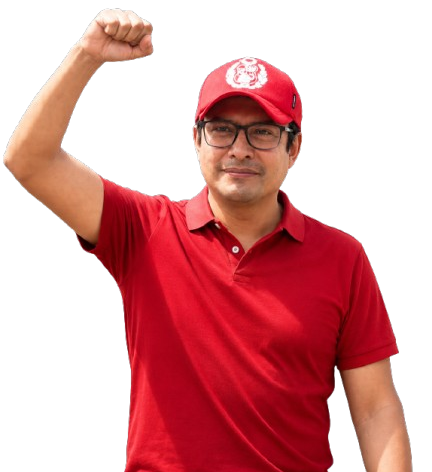
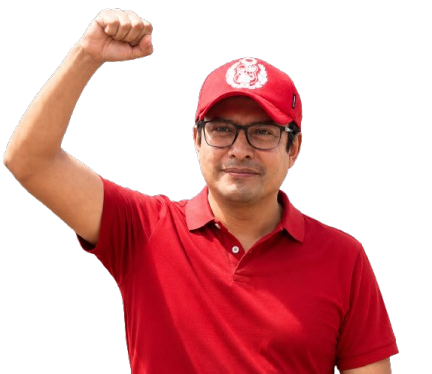
CAMBIOS E FOTO

diff --git a/src/components/Hero/Hero.module.css b/src/components/Hero/Hero.module.css
@@ -161,11 +161,11 @@
 /* ── Image ───────────────────────────────────────────────── */
 .imageWrapper {
   position: absolute;
-  right: 8%;
-  top: 80px;
+  right: 4%;
+  top: 60px;
   transform: none;
-  height: calc(100% - 80px - 320px);
-  width: 45%;
+  height: calc(100% - 60px - 240px);
+  width: 52%;
   overflow: hidden;
   z-index: 1;
   border-radius: 0;
@@ -385,7 +385,7 @@
   .titleMain { font-size: clamp(3.5rem, 12vw, 6rem); }
   .titleSub  { font-size: clamp(3.5rem, 12vw, 6rem); white-space: normal; }
   .desc { font-size: 1.1rem; margin: 1rem auto 1.5rem; max-width: 90%; }
-  .content :global(.btn-primary) { margin: 0 auto 2rem; display: block; width: fit-content; font-size: 1.6rem; letter-spacing: 5px; padding: .9rem 2rem; white-space: nowrap; }
+  .content :global(.btn-primary) { margin: 0 auto 2rem; display: block; width: fit-content; font-size: 1.5rem; letter-spacing: 5px; padding: .85rem 2rem; white-space: nowrap; }
   .ring1, .ring2, .ring3, .ring4, .ring5, .ring6, .ring7, .diagonal, .dots { display: none; }
 }
 

diff --git a/src/index.css b/src/index.css
@@ -203,11 +203,11 @@ section#hero { padding: 0; }
   color: var(--white);
   font-family: 'Anton', sans-serif;
   font-weight: 400;
-  font-size: 3rem;
-  letter-spacing: 10px;
+  font-size: 1.5rem;
+  letter-spacing: 5px;
   text-transform: uppercase;
   white-space: nowrap;
-  padding: 1rem 2.5rem;
+  padding: .85rem 2rem;
   border-radius: 9999px;
   border: none;
   cursor: pointer;
@@ -285,7 +285,7 @@ section#hero { padding: 0; }
 @media (max-width: 480px) {
   section { padding: 2.5rem 5%; }
   section#hero { padding: 0; }
-  .btn-primary { font-size: .82rem; padding: .75rem 1.6rem; }
+  .btn-primary { font-size: 1.1rem; letter-spacing: 3px; padding: .75rem 1.6rem; }
 }
 
 /* ── FLOATING PARTICLES (Hero) ──────────────────────────────── */

diff --git a/src/components/Sobre/Sobre.jsx b/src/components/Sobre/Sobre.jsx
@@ -1,5 +1,5 @@
 import styles from './Sobre.module.css'
-import jesusImg from '../../assets/jesus.png'
+import jesusImg from '../../assets/perfil-uno.png'
 
 const stats = [
   {